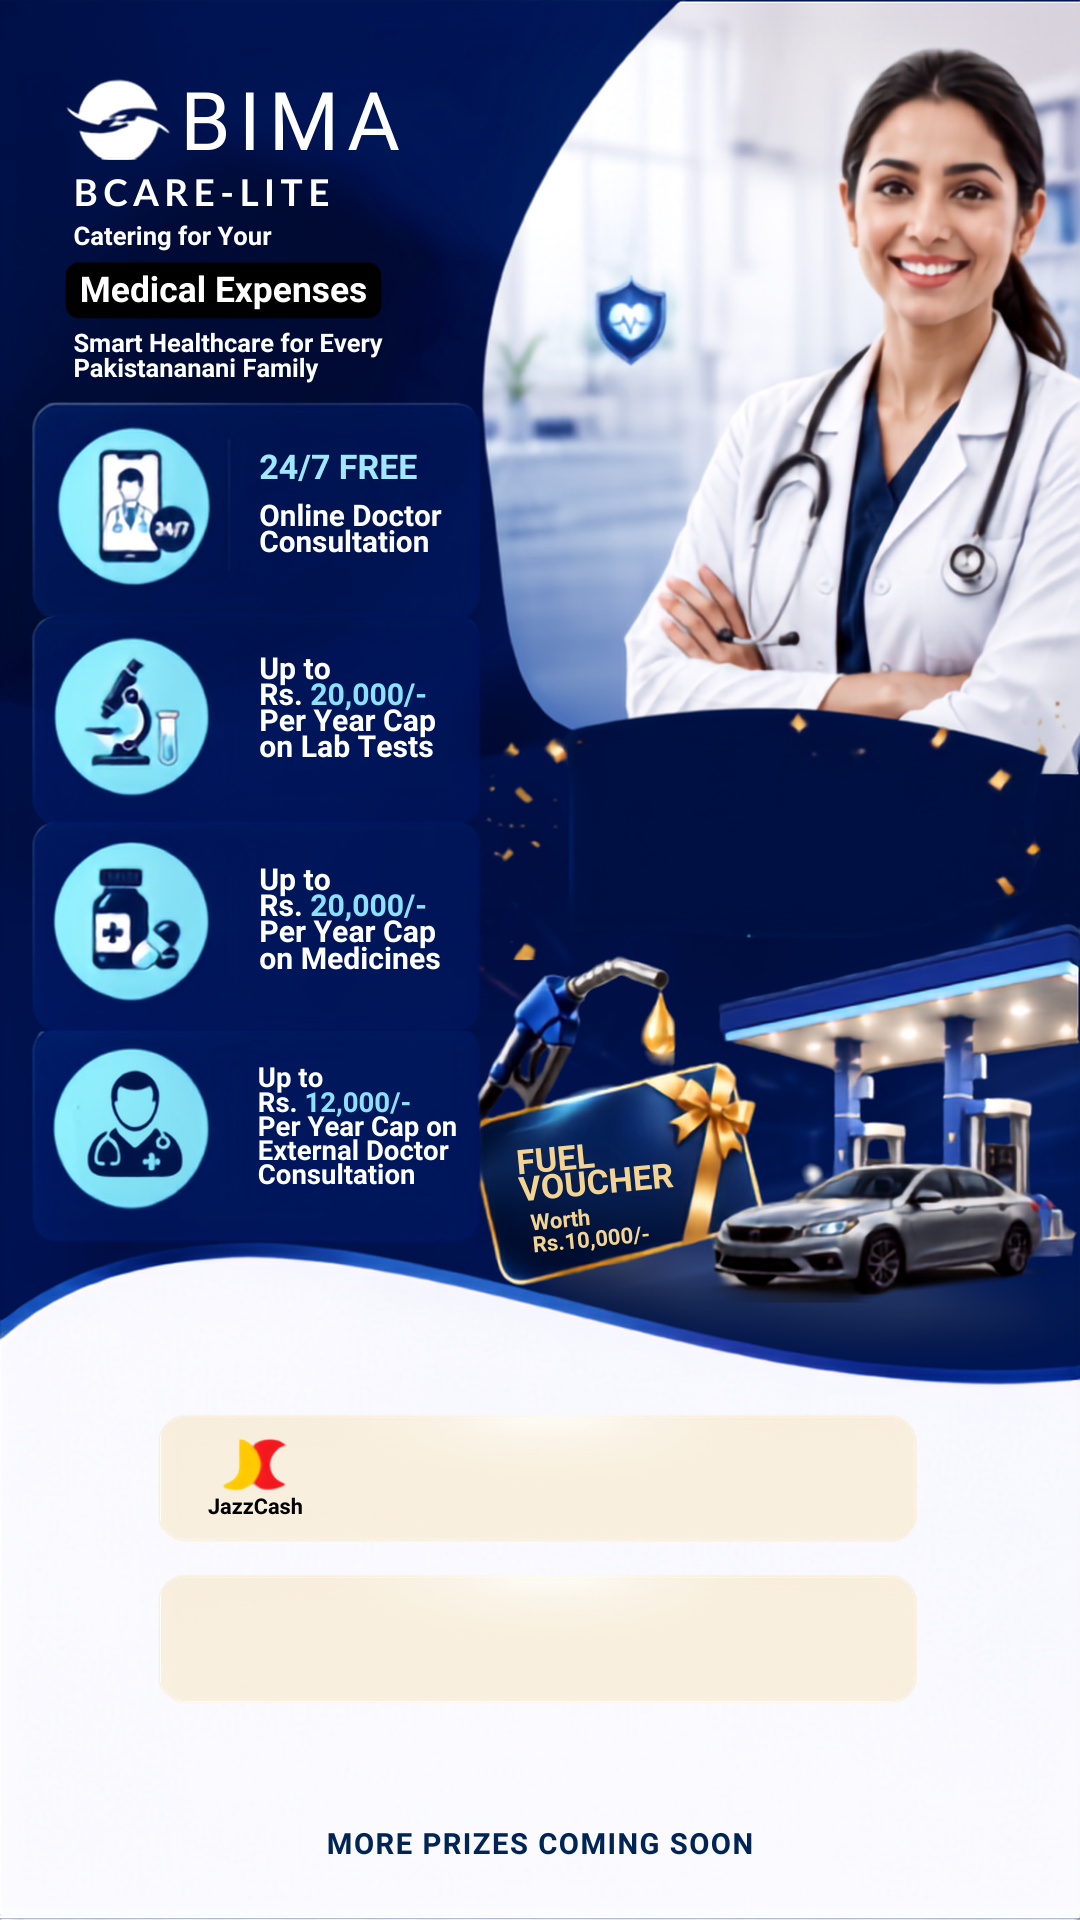
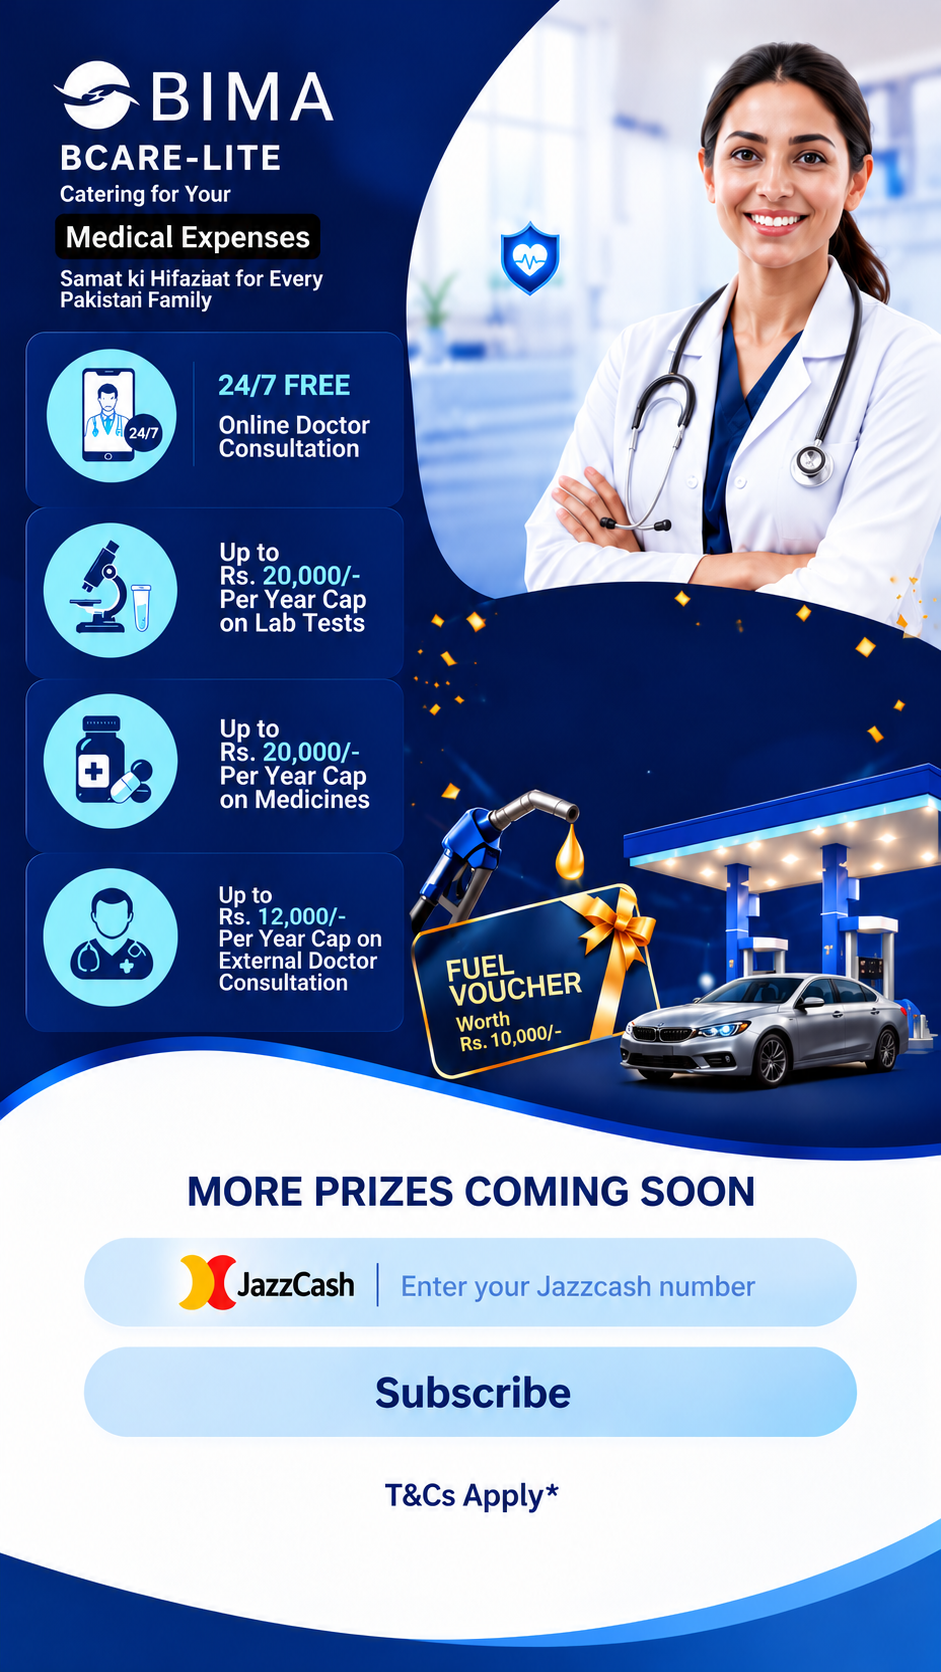
adjustments of tiktok 300 and 600

diff --git a/BimaVoucher/index3.html b/BimaVoucher/index3.html
@@ -110,12 +110,16 @@
             height: 100%;
         }
 
-        /* 
-           Input Box Overlay 
-           Position: y=1679 to 1765, x=112 to 1000 in 1125x2000 campaign_artwork_tiktok_300.webp
-           Left: 9.96%, Top: 83.95%, Width: 78.93%, Height: 4.35%
-        */
-        .input-box-overlay {
+        /* Price info is already printed in the campaign artwork */
+        .price-info {
+            display: none;
+        }
+
+        /* =========================================================
+           1. TikTok 300 Artwork Layout (campaign_artwork_tiktok_300.webp)
+           ========================================================= */
+        .container:not(.campaign-artwork-tiktok-600) .input-box-overlay,
+        .container.campaign-artwork-tiktok-300 .input-box-overlay {
             position: absolute;
             left: 9.96%;
             top: 83.95%;
@@ -126,11 +130,8 @@
             z-index: 10;
         }
 
-        /* 
-           Input field covering the text area to the right of the artwork's printed JazzCash logo.
-           Using transparent background so it seamlessly blends with the artwork's printed light blue pill box!
-        */
-        .phone-input {
+        .container:not(.campaign-artwork-tiktok-600) .phone-input,
+        .container.campaign-artwork-tiktok-300 .phone-input {
             position: absolute;
             left: 36%;
             top: 0;
@@ -148,28 +149,15 @@
             caret-color: #0d2743;
         }
 
-        .phone-input::placeholder {
+        .container:not(.campaign-artwork-tiktok-600) .phone-input::placeholder,
+        .container.campaign-artwork-tiktok-300 .phone-input::placeholder {
             color: #7890a8;
             font-weight: 400;
             font-size: clamp(10px, 2.7cqw, 14px);
         }
 
-        .phone-input:-webkit-autofill,
-        .phone-input:-webkit-autofill:hover,
-        .phone-input:-webkit-autofill:focus {
-            -webkit-text-fill-color: #0d2743;
-            -webkit-box-shadow: 0 0 0px 1000px transparent inset !important;
-            box-shadow: 0 0 0px 1000px transparent inset !important;
-            transition: background-color 5000s ease-in-out 0s;
-        }
-
-        /* 
-           Subscribe Button Overlay
-           Position: y=1789 to 1877, x=112 to 1000 in 1125x2000 campaign_artwork_tiktok_300.webp
-           Left: 9.96%, Top: 89.45%, Width: 78.93%, Height: 4.45%
-           Using transparent background to overlay directly over the artwork's printed light blue button pill!
-        */
-        .subscribe-btn-overlay {
+        .container:not(.campaign-artwork-tiktok-600) .subscribe-btn-overlay,
+        .container.campaign-artwork-tiktok-300 .subscribe-btn-overlay {
             position: absolute;
             left: 9.96%;
             top: 89.45%;
@@ -192,6 +180,115 @@
             transition: transform 0.15s ease, opacity 0.15s ease, background-color 0.15s ease;
         }
 
+        .container:not(.campaign-artwork-tiktok-600) .consent-container,
+        .container.campaign-artwork-tiktok-300 .consent-container {
+            position: absolute;
+            left: 35%;
+            top: 94.8%;
+            width: 30%;
+            height: 3.0%;
+            display: flex;
+            justify-content: center;
+            align-items: center;
+            z-index: 10;
+        }
+
+        /* =========================================================
+           2. TikTok 600 Artwork Layout (campaign_artwork_tiktok_600.png)
+           ========================================================= */
+        .container.campaign-artwork-tiktok-600 {
+            background-image: url('campaign_artwork_tiktok_600.png');
+        }
+
+        .container.campaign-artwork-tiktok-600 .input-box-overlay {
+            position: absolute;
+            left: 8.93%;
+            top: 74.04%;
+            width: 82.15%;
+            height: 5.32%;
+            display: flex;
+            align-items: center;
+            z-index: 10;
+        }
+
+        .container.campaign-artwork-tiktok-600 .phone-input {
+            position: absolute;
+            left: 40%;
+            top: 0;
+            width: 58%;
+            height: 100%;
+            border: none;
+            outline: none;
+            background: transparent !important;
+            color: #0d2743;
+            font-family: 'Outfit', sans-serif;
+            font-size: 16px;
+            font-size: clamp(12px, 3.4cqw, 17px);
+            font-weight: 500;
+            padding: 0 8px;
+            caret-color: #0d2743;
+        }
+
+        .container.campaign-artwork-tiktok-600 .phone-input:focus,
+        .container.campaign-artwork-tiktok-600 .phone-input:not(:placeholder-shown) {
+            background: #c8e6fd !important;
+            border-radius: 8px;
+        }
+
+        .container.campaign-artwork-tiktok-600 .phone-input::placeholder {
+            color: transparent;
+        }
+
+        .container.campaign-artwork-tiktok-600 .subscribe-btn-overlay {
+            position: absolute;
+            left: 8.82%;
+            top: 80.56%;
+            width: 82.36%;
+            height: 5.38%;
+            background: transparent;
+            color: transparent;
+            border: none;
+            border-radius: 9999px;
+            font-family: 'Outfit', sans-serif;
+            font-size: 19px;
+            font-size: clamp(15px, 4.0cqw, 20px);
+            font-weight: 700;
+            letter-spacing: 0.3px;
+            cursor: pointer;
+            display: flex;
+            align-items: center;
+            justify-content: center;
+            box-shadow: none;
+            transition: transform 0.15s ease, opacity 0.15s ease, background-color 0.15s ease;
+        }
+
+        .container.campaign-artwork-tiktok-600 .subscribe-btn-overlay:disabled {
+            color: #0d2743;
+            background: #c8e6fd;
+        }
+
+        .container.campaign-artwork-tiktok-600 .consent-container {
+            position: absolute;
+            left: 35%;
+            top: 88.2%;
+            width: 30%;
+            height: 3.2%;
+            display: flex;
+            justify-content: center;
+            align-items: center;
+            z-index: 10;
+        }
+
+        /* Common Elements & Shared Responsive Overlays */
+        .phone-input:-webkit-autofill,
+        .phone-input:-webkit-autofill:hover,
+        .phone-input:-webkit-autofill:focus {
+            -webkit-text-fill-color: #0d2743;
+            -webkit-box-shadow: 0 0 0px 1000px transparent inset !important;
+            box-shadow: 0 0 0px 1000px transparent inset !important;
+            transition: background-color 5000s ease-in-out 0s;
+        }
+
         .subscribe-btn-overlay:hover {
             background-color: rgba(255, 255, 255, 0.25);
             transform: scale(1.015);
@@ -205,27 +302,6 @@
             opacity: 0.6;
             cursor: not-allowed;
             transform: none;
-        }
-
-        /* Price info is already printed in the campaign artwork */
-        .price-info {
-            display: none;
-        }
-
-        /* 
-           Consent Container positioned over the printed 'T&Cs Apply*' in the artwork
-           Position: y=1910 to 1934, center x=563.5 in 1125x2000 campaign_artwork_tiktok_300.webp
-        */
-        .consent-container {
-            position: absolute;
-            left: 35%;
-            top: 94.8%;
-            width: 30%;
-            height: 3.0%;
-            display: flex;
-            justify-content: center;
-            align-items: center;
-            z-index: 10;
         }
 
         .consent-label {
@@ -741,9 +817,18 @@
 
             // Fetch campaign configuration parameters from campaigns.json API endpoint
             try {
-                const res = await fetch(`/api/campaign/${rawCampaignCode}`);
+                let res = await fetch(`/api/campaign/${rawCampaignCode}`);
                 if (res.ok) {
-                    const data = await res.json();
+                    let data = await res.json();
+                    if (data && data.environment === 'qa' && !rawCampaignCode.startsWith('qa_') && data.code === 'qa_default' && rawCampaignCode !== 'default') {
+                        const qaRes = await fetch(`/api/campaign/qa_${rawCampaignCode}`);
+                        if (qaRes.ok) {
+                            const qaData = await qaRes.json();
+                            if (qaData.success && qaData.code !== 'qa_default') {
+                                data = qaData;
+                            }
+                        }
+                    }
                     if (data.success && data.config) {
                         window.CAMPAIGN_VARS = data.config;
                         if (data.code) window.CAMPAIGN_VARS.rawCode = data.code;
@@ -763,7 +848,14 @@
             const price = Number(cVars.price) || 300;
             const currency = cVars.currency || 'PKR';
             let artworkImage = cVars.artworkImage || 'campaign_artwork_tiktok_300.webp';
-            if (artworkImage === 'campaign_artwork_tiktok_300.jpeg' || artworkImage === 'campaign2 artwork.jpeg') {
+            const cleanCode = (campaignCode || '').toLowerCase();
+            const cleanArtwork = (artworkImage || '').toLowerCase();
+
+            const is600 = cleanCode.includes('600') || (rawCampaignCode || '').toLowerCase().includes('600') || cleanArtwork.includes('600');
+
+            if (is600) {
+                artworkImage = 'campaign_artwork_tiktok_600.png';
+            } else if (artworkImage === 'campaign_artwork_tiktok_300.jpeg' || artworkImage === 'campaign2 artwork.jpeg') {
                 artworkImage = 'campaign_artwork_tiktok_300.webp';
             }
             const backgroundColor = cVars.backgroundColor || '#0d2743';
@@ -802,10 +894,12 @@
                 }
             }
 
-            // Dynamically update container artwork background image
+            // Dynamically update container artwork background image & modifier classes
             const containerEl = document.querySelector('.container');
             if (containerEl && artworkImage) {
                 containerEl.style.backgroundImage = `url('${artworkImage}')`;
+                containerEl.classList.toggle('campaign-artwork-tiktok-600', is600);
+                containerEl.classList.toggle('campaign-artwork-tiktok-300', !is600);
             }
 
             // Dynamically update Terms & Conditions link href
